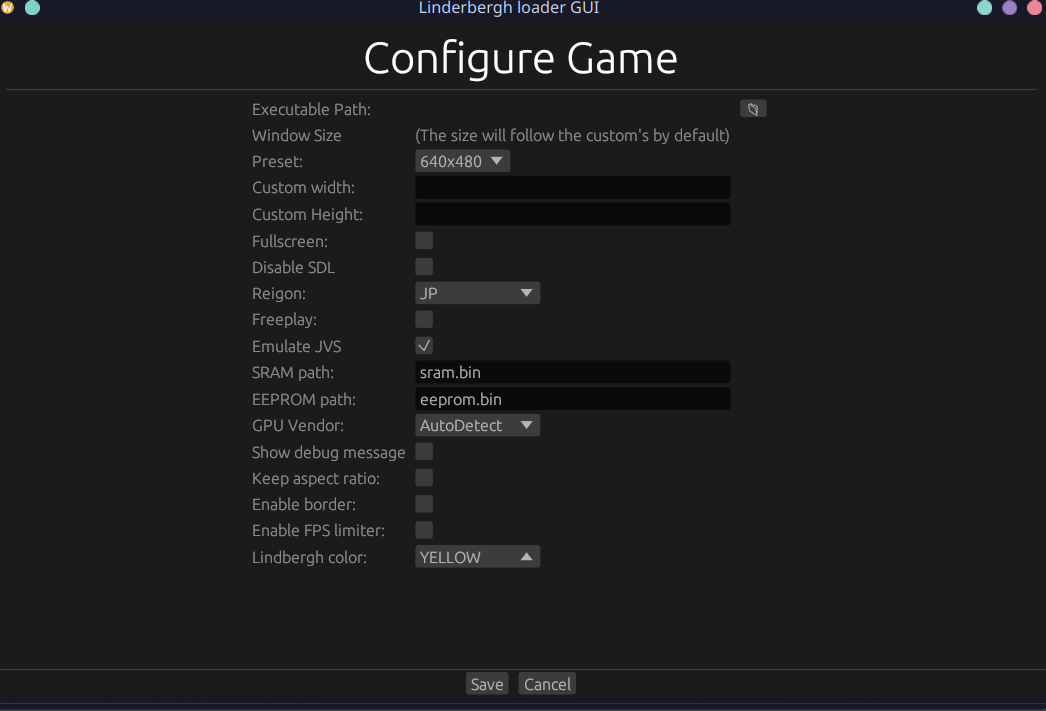
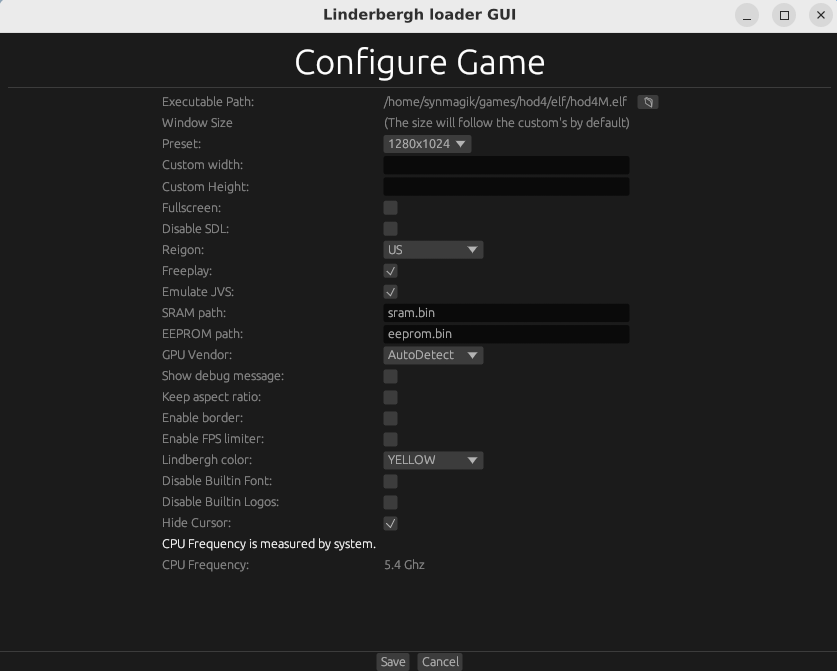
Basically working

Changed region(s): [[0.0, 0.0, 1.0, 0.8644], [0.0, 0.924, 1.0, 1.0], [0.4659, 0.8346, 0.497, 0.8644]]

diff --git a/src/ui.rs b/src/ui.rs
@@ -2,7 +2,7 @@ use crate::config::{
     GameRegion, GpuType, Keymap, LindberghColor, LindberghConfig, executable_path,
 };
 use crate::games::{GameData, GameTitle, GameType};
-use crate::runner::{run_game,monitor_game};
+use crate::runner::{monitor_game, run_game};
 use anyhow::{Ok, anyhow};
 use eframe::egui::{self, Color32, Key, Modal, RichText};
 use network_interface::NetworkInterface;
@@ -19,7 +19,6 @@ enum AppState {
 #[derive(PartialEq, Clone, Eq)]
 enum ModalStatus {
     Error,
-    Warning,
     Info,
     About,
 }
@@ -134,12 +133,13 @@ impl LoaderApp {
                                 RichText::new("Info").strong().size(25.0),
                             );
                         },
-                        ModalStatus::Warning => {
-                            ui.colored_label(
-                                Color32::from_rgb(255, 255, 0),
-                                RichText::new("Warning").strong().size(25.0),
-                            );
-                        },
+                        // INFO: Might be used in the future
+                        // ModalStatus::Warning => {
+                        //     ui.colored_label(
+                        //         Color32::from_rgb(255, 255, 0),
+                        //         RichText::new("Warning").strong().size(25.0),
+                        //     );
+                        // },
                         ModalStatus::About => {
                             ui.label(RichText::new("About").strong().size(25.0));
                         }
@@ -823,7 +823,7 @@ impl LoaderApp {
                             if self.current_game == GameTitle::Outrun_2_SP_SDX {
                                 ui.label("Network Card Name:");
                                 if self.shared_state.temp_config.nic_name.is_empty() {
-                                    self.shared_state.temp_config.nic_name = self.shared_state.temp_interface.get(0).unwrap().name.clone();
+                                    self.shared_state.temp_config.nic_name = self.shared_state.temp_interface.first().unwrap().name.clone();
                                 }
                                 egui::ComboBox::from_id_salt("network card combobox")
                                 .selected_text(&cl.nic_name)
@@ -839,8 +839,8 @@ impl LoaderApp {
                                 ui.end_row();
                                 let pos = self.shared_state.temp_interface.iter().position(|x| x.name == self.shared_state.temp_config.nic_name);
                                 // TODO: Better handling maybe?
-                                let select_ip = if pos.is_some() {
-                                    self.shared_state.temp_interface.get(pos.unwrap()).unwrap().addr.iter().filter(|x| x.ip().is_ipv4()).nth(0)
+                                let select_ip = if let Some(pos) = pos {
+                                    self.shared_state.temp_interface.get(pos).unwrap().addr.iter().filter(|x| x.ip().is_ipv4()).nth(0)
                                 } else {
                                     None
                                 };
@@ -1271,15 +1271,25 @@ impl LoaderApp {
 }
 
 impl LoaderApp {
-    fn run_game_with_monitor(&mut self,test_mode: bool) {
-        if let Err(e) = self.shared_state.temp_config.read_from_lindbergh_conf_by_title(&self.current_game) {
-            self.set_modal(format!("Error occurred while reading data \"{}\"", e), ModalStatus::Error);
+    fn run_game_with_monitor(&mut self, test_mode: bool) {
+        if let Err(e) = self
+            .shared_state
+            .temp_config
+            .read_from_lindbergh_conf_by_title(&self.current_game)
+        {
+            self.set_modal(
+                format!("Error occurred while reading data \"{}\"", e),
+                ModalStatus::Error,
+            );
             return;
         }
         let exe_path = &self.shared_state.temp_config.exe_path;
-        match run_game(exe_path.as_str(), test_mode) {
+        match run_game(exe_path.as_str(), test_mode, &self.current_game) {
             Err(e) => {
-                self.set_modal(format!("Error occurred while running game:\n{}",e), ModalStatus::Error);
+                self.set_modal(
+                    format!("Error occurred while running game:\n{}", e),
+                    ModalStatus::Error,
+                );
                 return;
             }
             Result::Ok(c) => {
@@ -1289,11 +1299,15 @@ impl LoaderApp {
         loop {
             match monitor_game(exe_path.as_str(), self.current_process.as_mut().unwrap()) {
                 Err(e) => {
-                    self.set_modal(format!("Error occurred while monitoring game:\n{}",e), ModalStatus::Error);
+                    self.set_modal(
+                        format!("Error occurred while monitoring game:\n{}", e),
+                        ModalStatus::Error,
+                    );
                     break;
                 }
                 Result::Ok(e) => {
-                    if e.is_some() {
+                    if let Some(status) = e {
+                        self.set_modal(format!("Game exited with status {}",status), ModalStatus::Info);
                         break;
                     }
                 }

diff --git a/src/runner.rs b/src/runner.rs
@@ -1,16 +1,19 @@
-use std::time::Duration;
-use std::{env, thread};
 use anyhow::anyhow;
+use std::io::Read;
 use std::path::PathBuf;
 use std::process::{Child, Command, ExitStatus, Stdio};
-const SO_LIST : [&'static str;7] = [
+use std::time::Duration;
+use std::{env, thread};
+
+use crate::games::GameTitle;
+const SO_LIST: [&str; 7] = [
     "libkswapapi.so",
     "libposixtime.so",
     "libposixtime.so.1",
     "libposixtime.so.2.4",
     "libsegaapi.so",
     "lindbergh.so",
-    "libCg.so"
+    "libCg.so",
 ];
 fn get_test(name: impl ToString) -> Option<String> {
     match name.to_string().as_str() {
@@ -22,39 +25,62 @@ fn get_test(name: impl ToString) -> Option<String> {
         _ => None,
     }
 }
-fn copy_files(path: &str) -> anyhow::Result<()> {
+fn copy_files(path: &str, current_game: &GameTitle) -> anyhow::Result<()> {
     let mut path = PathBuf::from(path);
     path.pop();
     for i in SO_LIST {
-        std::fs::copy(format!("./dynlibs/{}",i), format!("{}/{}",path.display(),i))?;
+        std::fs::copy(
+            format!("./dynlibs/{}", i),
+            format!("{}/{}", path.display(), i),
+        )?;
     }
+    std::fs::copy(
+        format!("./config/{:?}.conf", current_game),
+        format!("{}/lindbergh.conf", path.display()),
+    )?;
     Ok(())
 }
 fn delete_files(path: &str) -> anyhow::Result<()> {
+    let mut path = PathBuf::from(path);
+    path.pop();
     for i in SO_LIST {
-        std::fs::remove_file(format!("{}/{}",path,i))?;
+        std::fs::remove_file(format!("{}/{}", path.display(), i))?;
+    }
+    std::fs::remove_file(format!("{}/lindbergh.conf", path.display()))?;
+    if std::fs::exists(format!("{}/eeprom.bin", path.display()))? {
+        std::fs::remove_file(format!("{}/eeprom.bin", path.display()))?;
+    }
+    if std::fs::exists(format!("{}/sram.bin", path.display()))? {
+        std::fs::remove_file(format!("{}/sram.bin", path.display()))?;
     }
     Ok(())
 }
-pub fn monitor_game(path: &str,child: &mut Child) -> anyhow::Result<Option<ExitStatus>> {
+pub fn monitor_game(path: &str, child: &mut Child) -> anyhow::Result<Option<ExitStatus>> {
     thread::sleep(Duration::from_secs(1));
+    let mut s = String::new();
     if let Some(a) = child.try_wait()? {
+        child.stderr.as_mut().unwrap().read_to_string(&mut s)?;
+        eprintln!("\x1b[94m[INFO]\x1b[0m STDERR OUTPUT:\n {}", s);
         delete_files(path)?;
         Ok(Some(a))
     } else {
         Ok(None)
-    }   
+    }
 }
-pub fn run_game(path: &str, test_mode: bool) -> anyhow::Result<Child> {
-    copy_files(path)?;
+pub fn run_game(path: &str, test_mode: bool, current_game: &GameTitle) -> anyhow::Result<Child> {
+    copy_files(path, current_game)?;
     let mut path = PathBuf::from(path);
-    let ld_library_path = env::var("LD_LIBRARY_PATH")?;
-    let fname = path.file_name().ok_or(anyhow!("Unable to get the filename of path"))?.to_string_lossy().to_string();
+    let ld_library_path = env::var("LD_LIBRARY_PATH").unwrap_or_default();
+    let fname = path
+        .file_name()
+        .ok_or(anyhow!("Unable to get the filename of path"))?
+        .to_string_lossy()
+        .to_string();
     path.pop();
     if test_mode && get_test(&fname).is_some() {
-        return run_game(get_test(&fname).unwrap().as_str(), false);
-    } 
-    let child = Command::new(&path)
+        return run_game(get_test(&fname).unwrap().as_str(), false, current_game);
+    }
+    let child = Command::new(format!("{}/{}", path.display(), fname))
         .env(
             "LD_LIBRARY_PATH",
             if !ld_library_path.is_empty() {
@@ -64,10 +90,15 @@ pub fn run_game(path: &str, test_mode: bool) -> anyhow::Result<Child> {
             },
         )
         .env("LD_PRELOAD", "lindbergh.so")
-        .arg(if test_mode && get_test(fname).is_none() { "-t" } else { "" })
+        .arg(if test_mode && get_test(fname).is_none() {
+            "-t"
+        } else {
+            ""
+        })
         .current_dir(path)
         .stdout(Stdio::piped())
         .stderr(Stdio::piped())
         .spawn()?;
+    eprintln!("\x1b[94m[INFO]\x1b[0m Game process id: {:?}", child.id());
     Ok(child)
 }

diff --git a/src/config.rs b/src/config.rs
@@ -852,6 +852,10 @@ impl LindberghConfig {
             File::create_new(&path)?;
         }
         let mut f = File::options().write(true).truncate(true).open(&path)?;
+        
+        // NOTE: Properties that are commented out are currently in-dev settings that might supported in the future
+        // NOTE: It might also be deprecated in the future
+
         writeln!(f, "# {}", self.exe_path)?;
         writeln!(f, "# This file is generated by lindbergh-loader-gui")?;
         writeln!(
@@ -933,23 +937,20 @@ impl LindberghConfig {
             writeln!(f, "CUSTOM_CURSOR_WIDTH {}", self.custom_cursor_width)?;
             writeln!(f, "CUSTOM_CURSOR_HEIGHT {}", self.custom_cursor_height)?;
         }
-        writeln!(f, "ID_IP_SEAT_1 {}", self.id45_ip_seat[0])?;
-        writeln!(f, "ID_IP_SEAT_2 {}", self.id45_ip_seat[1])?;
-        if self.nic_name.is_empty() {
-            writeln!(f, "NIC_NAME enp1s0")?;
-        } else {
-            writeln!(f, "NIC_NAME {}", self.nic_name)?;
-        }
+        // writeln!(f, "ID_IP_SEAT_1 {}", self.id45_ip_seat[0])?;
+        // writeln!(f, "ID_IP_SEAT_2 {}", self.id45_ip_seat[1])?;
         writeln!(f, "OR2_IP {}", self.outrun_link_ip)?;
         for i in 1..=4 {
             writeln!(f, "HARLEY_CAB{} {}", i, self.harley_cab[i - 1])?;
         }
         if self.cpu_freq > 0.0 {
-            writeln!(f, "CPU_FREQ {}", self.cpu_freq)?;
+            writeln!(f, "CPU_FREQ_GHZ {}", self.cpu_freq)?;
         }
-        writeln!(f, "EMULATE_CARDREADER {}", self.emulate_cardreader as i32)?;
-        writeln!(f, "CARDFILE_01 {}", self.card_file[0])?;
-        writeln!(f, "CARDFILE_02 {}", self.card_file[1])?;
+        if current_title == &GameTitle::Virtua_Tennis_3 {
+            writeln!(f, "EMULATE_CARDREADER {}", self.emulate_cardreader as i32)?;
+            writeln!(f, "CARDFILE_01 {}", self.card_file[0])?;
+            writeln!(f, "CARDFILE_02 {}", self.card_file[1])?;
+        }
         self.input_method.write_to_lindbergh_conf(&mut f)?;
         Ok(())
     }
@@ -1171,9 +1172,6 @@ impl LindberghConfig {
                 }
                 "ID_IP_SEAT_2" => {
                     self.id45_ip_seat[1] = r[1].to_string();
-                }
-                "NIC_NAME" => {
-                    self.nic_name = r[1].to_string();
                 }
                 "OR2_IP" => {
                     self.outrun_link_ip = r[1].to_string();

diff --git a/src/main.rs b/src/main.rs
@@ -2,7 +2,6 @@ use eframe::egui;
 use loader_gui::ui::LoaderApp;
 use std::fs;
 fn main() -> eframe::Result {
-    // Log to stderr (if you run with `RUST_LOG=debug`).
     let icon = eframe::icon_data::from_png_bytes(include_bytes!("../assets/default.png")).unwrap();
     let options = eframe::NativeOptions {
         viewport: egui::ViewportBuilder::default()

diff --git a/src/games.rs b/src/games.rs
@@ -17,7 +17,6 @@ pub struct GameData {
     pub game_title: String,
     pub game_id: String,
     pub game_dvp: String,
-    // true = Working false = Not working/Unkown
     pub game_status: bool,
     pub config: LindberghConfig,
 }

diff --git a/README.md b/README.md
@@ -1,13 +1,57 @@
 ## Lindbergh Loader GUI
 
+This is a GUI for [lindbergh-loader](https://github.com/lindbergh-loader/lindbergh-loader)
+
 **Main Page**
 
 ![](./main_look.png)
 
-**Configuration Page**
+**Game Configuration Page**
 
 ![](./config_game_look.png)
 
-This is a GUI for [lindbergh-loader](https://github.com/lindbergh-loader/lindbergh-loader)
+**Keymap Configuration Page**
 
-This project is currently under active development,and cannot function properly,please wait for development
+![](./config_keymap_look.png)
+
+## Pre-Install Requirements
+
+Rust toolchain is needed to compile this project.
+
+for how to install rust toolchain on your computer,see [rustup](https://rustup.rs/)
+
+For graphical dependecies:
+
+- **Desktop Users**: Basically nothing is required
+
+
+-  **WSL2 Users / Users without desktop environment**: at least one implementation of `xdg-desktop-portal` (for file picker) and X11 with some desktop environment package (such as libadwaita,etc.)
+
+NOTE: I'm not very sure about this.
+
+## Installation
+
+1. [follow the guide on lindbergh-loader](https://github.com/lindbergh-loader/lindbergh-loader) and build the dynamic library.
+
+2. clone or download this project,`cd` into the project's directory and run
+```sh
+cargo build --release
+```
+then you can found the executable named `loader-gui` in `./target/release`,move it into anywhere you like.
+
+3. move the `assets` directory into the same-level directory as the executable
+
+4. create a directory named `dynlibs` in the same-level directory as the executable,move everything from `/libs` and `/build` in lindbergh-loader directory.
+
+## Troubleshooting
+
+```
+Io error: Broken pipe (os error 32)
+Io error: Broken pipe (os error 32)
+Io error: Broken pipe (os error 32)
+Error: WinitEventLoop(ExitFailure(1))
+```
+NOTE: So far this only happens on wsl2
+
+**Solution:** idk,just rerun a few more times and it works???
+
